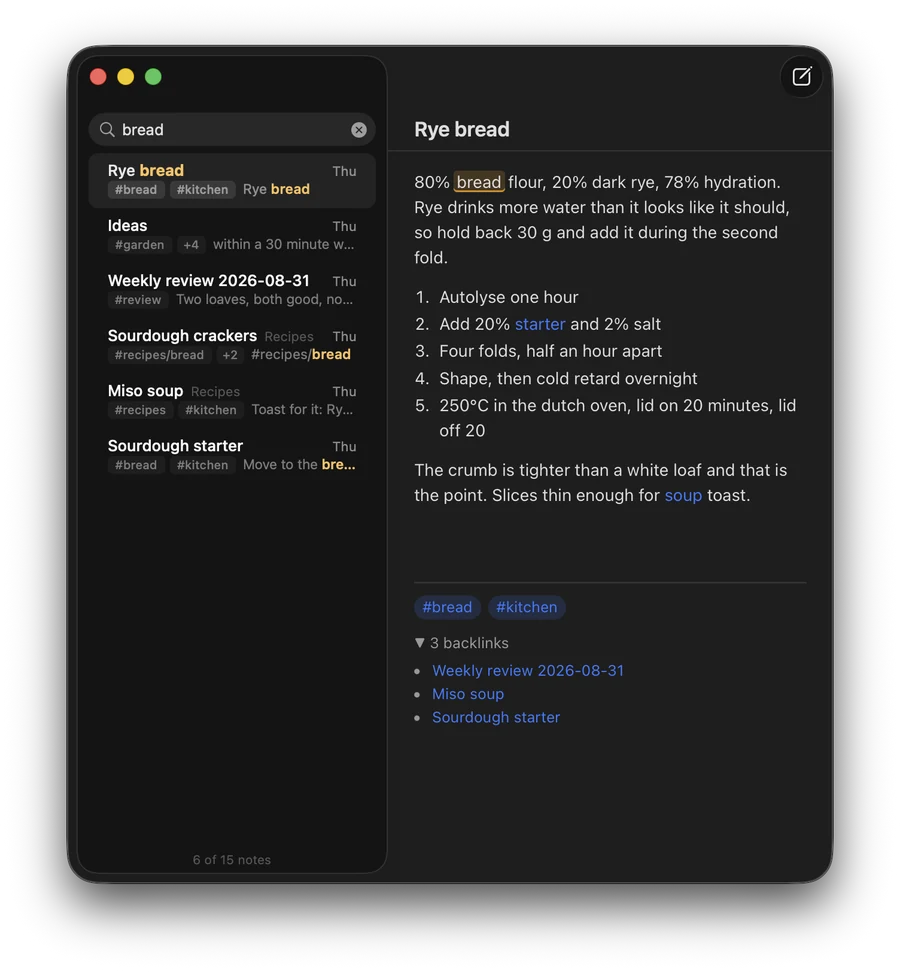
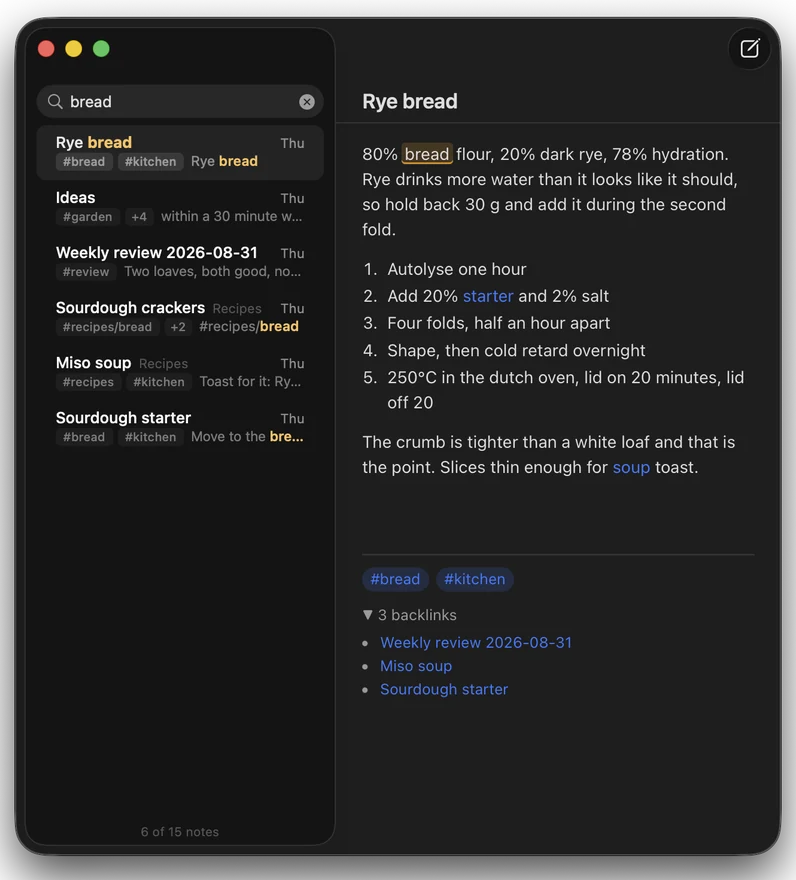
Add Tracer and Obliscence with logomarks and tighten previews

diff --git a/scripts/check-site.js b/scripts/check-site.js
@@ -1,4 +1,6 @@
 async page => {
+  // Routing disables the HTTP cache, including unchanged URLs for updated images.
+  await page.route('**/*', route => route.continue());
   const results = [];
   for (const theme of ['light', 'dark']) {
     await page.emulateMedia({colorScheme: theme});
@@ -8,8 +10,11 @@ async page => {
       const text = document.body.innerText;
       const personal = [...document.querySelectorAll('a[href="https://beaugunderson.com"]')];
       return {
-        removedCopyAbsent: !/the apps|native\. offline\. out of your way|little plant behind the name|malaga|say hello|github|beaugunderson\.com/i.test(text),
-        noGitHubLinks: !document.querySelector('a[href*="github.com"]'),
+        removedCopyAbsent: !/the apps|native\. offline\. out of your way|little plant behind the name|malaga|say hello|beaugunderson\.com/i.test(text),
+        productGitHubLinksOnly: [...document.querySelectorAll('a[href*="github.com"]')].map(a => a.href).sort().join(',') === 'https://github.com/beaugunderson/obliscence,https://github.com/beaugunderson/tracer',
+        tracerScreenshot: document.querySelector('.tracer .app-visual img')?.getAttribute('src') === '/assets/tracer.webp',
+        obliscenceTextOnly: !document.querySelector('.obliscence .app-visual') && /Claude Code and pi conversations/.test(document.querySelector('.obliscence .app-description')?.textContent),
+        everyAppHasLogomark: [...document.querySelectorAll('.app')].every(card => card.querySelector('.app-heading img[alt=""]')),
         noTopNavigation: !document.querySelector('.masthead nav'),
         noImageCaptions: !document.querySelector('.app-visual figcaption'),
         appBackgrounds: [...document.querySelectorAll('.app')].every(el => {
@@ -36,7 +41,24 @@ async page => {
       }, null, {timeout:10000});
       const layout = await page.evaluate(() => ({
         overflow: document.documentElement.scrollWidth > innerWidth,
-        compactDesktop: innerWidth < 1280 || document.documentElement.scrollHeight <= 1600,
+        compactDesktop: innerWidth < 1280 || document.documentElement.scrollHeight <= 2300,
+        currentKnapCapture: (() => {
+          const image = document.querySelector('.knap picture img');
+          return image.naturalWidth === (innerWidth <= 650 ? 796 : 1328);
+        })(),
+        tightPreviewSpacing: ['.knap', '.tuck'].every(selector => {
+          const card = document.querySelector(selector), visual = card.querySelector('.app-visual');
+          const image = visual.querySelector('img').getBoundingClientRect();
+          const frame = visual.getBoundingClientRect();
+          const heading = card.querySelector('.app-heading').getBoundingClientRect();
+          return Math.abs(frame.height - image.height) < 1 && heading.top - image.bottom <= 14;
+        }),
+        compactToolCards: ['.tracer', '.obliscence'].every(selector => {
+          const card = document.querySelector(selector), info = card.querySelector('.app-info');
+          const visual = card.querySelector('.app-visual');
+          const padding = parseFloat(getComputedStyle(card).paddingTop) + parseFloat(getComputedStyle(card).paddingBottom);
+          return Math.abs(card.getBoundingClientRect().height - info.getBoundingClientRect().height - (visual?.getBoundingClientRect().height || 0) - padding) < 1;
+        }),
         consistentUpcomingGap: innerWidth <= 1100 || Math.abs(document.querySelector('.narrowcast').getBoundingClientRect().top - document.querySelector('.galdra').getBoundingClientRect().bottom - parseFloat(getComputedStyle(document.querySelector('.grid')).rowGap)) < 1,
         heroFitsDesktop: innerWidth < 1280 || ['#headline','.intro'].every(selector => {
           const el = document.querySelector(selector);
@@ -52,7 +74,7 @@ async page => {
           return i.left < p.left - 1 || i.right > p.right + 1 || i.bottom > (caption ? caption.getBoundingClientRect().top - 5 : p.bottom + 1);
         }).map(img => img.src),
       }));
-      if (layout.overflow || !layout.consistentUpcomingGap || !layout.compactDesktop || !layout.heroFitsDesktop || layout.clippedPreviews.length || layout.missingSymbols || layout.apps.length !== 3 || layout.appCount !== 5 || layout.upcoming.length !== 2 || layout.upcoming.some(app => !app.comingSoon || !app.nonInteractive)) throw new Error(JSON.stringify({theme,width,layout}));
+      if (layout.overflow || !layout.consistentUpcomingGap || !layout.compactDesktop || !layout.compactToolCards || !layout.tightPreviewSpacing || !layout.currentKnapCapture || !layout.heroFitsDesktop || layout.clippedPreviews.length || layout.missingSymbols || layout.apps.length !== 5 || layout.appCount !== 7 || layout.upcoming.length !== 2 || layout.upcoming.some(app => !app.comingSoon || !app.nonInteractive)) throw new Error(JSON.stringify({theme,width,layout}));
       results.push({theme,width,layout:'pass'});
       if ([390,1280].includes(width)) {
         const audit = await page.evaluate(async () => {

diff --git a/index.html b/index.html
@@ -6,13 +6,13 @@
 <meta name="theme-color" content="#13221c" media="(prefers-color-scheme: light)">
 <meta name="theme-color" content="#0e1914" media="(prefers-color-scheme: dark)">
 <title>Bergknapp Softworks — Small, fast software for the Mac</title>
-<meta name="description" content="Small, fast tools made by Beau Gunderson: Knap, Spacebar, Tuck, and the upcoming Galdra and Narrowcast.">
+<meta name="description" content="Small, fast tools made by Beau Gunderson: Knap, Spacebar, Tuck, Tracer, Obliscence, and the upcoming Galdra and Narrowcast.">
 <link rel="canonical" href="https://bergknapp.works/">
 <link rel="icon" type="image/svg+xml" href="/favicon.svg?v=blue-spruce-1">
 <link rel="icon" type="image/png" sizes="256x256" href="/icon-256.png?v=blue-spruce-1">
 <link rel="apple-touch-icon" href="/apple-touch-icon.png?v=blue-spruce-1">
 <meta property="og:title" content="Bergknapp Softworks">
-<meta property="og:description" content="Small, fast, offline tools for the Mac. Made by Beau Gunderson.">
+<meta property="og:description" content="Small, fast tools for the Mac. Made by Beau Gunderson.">
 <meta property="og:image" content="https://bergknapp.works/og.png?v=blue-spruce-4">
 <meta property="og:image:width" content="1200">
 <meta property="og:image:height" content="630">
@@ -86,7 +86,7 @@
     <section class="hero" aria-labelledby="headline">
       <div>
         <h1 id="headline">Small, fast software for the Mac.</h1>
-        <p class="intro">I make native, offline tools for the things that bother me on my own Mac.</p>
+        <p class="intro">I make tools for the things that bother me on my own Mac.</p>
       </div>
       <figure class="hero-art"><svg role="img" aria-label="A blue-green stonecrop rosette seen from above"><use href="#rosette"/></svg></figure>
     </section>
@@ -101,8 +101,8 @@
           </div>
           <figure class="app-visual">
             <picture>
-              <source media="(max-width: 650px)" srcset="/assets/knap-window-narrow.webp" width="900" height="972">
-              <img src="/assets/knap-window.webp" width="1440" height="979" fetchpriority="high" alt="Knap searching for bread, with matching notes beside a Rye bread note and its backlinks.">
+              <source media="(max-width: 650px)" srcset="/assets/knap-window-narrow.webp" width="796" height="880">
+              <img src="/assets/knap-window.webp" width="1328" height="876" fetchpriority="high" alt="Knap searching for bread, with matching notes beside a Rye bread note and its backlinks.">
             </picture>
           </figure>
         </a>
@@ -146,6 +146,25 @@
             <div class="app-footer"><p class="app-meta">Coming soon · iPhone</p></div>
           </div>
         </article>
+        <a class="app tracer" href="https://github.com/beaugunderson/tracer" aria-labelledby="tracer-name tracer-visit">
+          <div class="app-info">
+            <div class="app-heading"><img src="/assets/tracer-icon.svg" width="36" height="36" alt="" loading="lazy"><h2 id="tracer-name">Tracer</h2></div>
+            <p class="app-line">See where your connection slows down.</p>
+            <p class="app-description">Continuous traceroute with per-hop latency sparklines, simultaneous IPv4 and IPv6 paths, and a log of recent outages.</p>
+            <div class="app-footer"><p class="app-meta">Mac &amp; Linux · Homebrew</p><span class="visit" id="tracer-visit"><span>GitHub</span><svg aria-hidden="true"><use href="#arrow"/></svg></span></div>
+          </div>
+          <figure class="app-visual">
+            <img src="/assets/tracer.webp" width="3456" height="984" alt="Tracer monitoring dns.google over IPv4 and IPv6, with per-hop latency sparklines, packet loss, and a recent-outages log." loading="lazy" decoding="async">
+          </figure>
+        </a>
+        <a class="app obliscence" href="https://github.com/beaugunderson/obliscence" aria-labelledby="obliscence-name obliscence-visit">
+          <div class="app-info">
+            <div class="app-heading"><img src="/assets/obliscence-icon.svg" width="36" height="36" alt="" loading="lazy"><h2 id="obliscence-name">Obliscence</h2></div>
+            <p class="app-line">Find that conversation again.</p>
+            <p class="app-description">Archive and search your Claude Code and pi conversations. One local archive for both, with full-text and semantic search.</p>
+            <div class="app-footer"><p class="app-meta">Mac · Homebrew</p><span class="visit" id="obliscence-visit"><span>GitHub</span><svg aria-hidden="true"><use href="#arrow"/></svg></span></div>
+          </div>
+        </a>
       </div>
     </section>
   </main>

diff --git a/styles.css b/styles.css
@@ -34,12 +34,13 @@ a.app:hover .visit svg { transform: translate(2px, -2px); }
 a.app:hover .visit span { text-decoration: underline; text-underline-offset: 4px; }
 .app-visual { order: -1; position: relative; margin: 0; height: 320px; display: flex; align-items: center; justify-content: center; }
 .app-visual img { width: auto; height: auto; max-width: 100%; max-height: 100%; object-fit: contain; }
-.knap .app-visual { padding: 0; }
-.knap picture { display: block; width: 100%; height: 100%; }
-.knap picture img { width: 100%; height: 100%; }
+.knap .app-visual, .tuck .app-visual { height: auto; padding: 0; }
+.knap picture { display: flex; justify-content: center; width: 100%; height: auto; }
+.knap picture img { width: auto; height: auto; max-height: 320px; }
+.knap .app-info, .tuck .app-info { padding-top: 12px; }
 .spacebar .app-visual img { border-radius: 10px; }
 .tuck { grid-column: 1; grid-row: 2 / span 2; }
-.tuck .app-visual img { border-radius: 10px; }
+.tuck .app-visual img { width: 100%; height: auto; border-radius: 10px; }
 .upcoming .app-meta { color: var(--accent); }
 .galdra { grid-column: 2; grid-row: 2; display: grid; grid-template-columns: minmax(0, 1fr) 250px; gap: 20px; align-items: center; }
 .galdra .app-info { padding: 0; }
@@ -51,6 +52,11 @@ a.app:hover .visit span { text-decoration: underline; text-underline-offset: 4px
 .narrowcast { grid-column: 2; grid-row: 3; }
 .narrowcast .app-info { padding: 0; }
 .narrowcast .app-description { margin-top: 10px; }
+.tracer, .obliscence { grid-column: 1 / -1; }
+.tracer .app-visual { height: auto; }
+.tracer .app-visual img { width: 100%; height: auto; border-radius: 10px; }
+.tracer .app-description, .obliscence .app-description { max-width: 75ch; }
+.obliscence .app-info { padding: 0; }
 footer { display: grid; grid-template-columns: minmax(0, 1fr) auto; align-items: end; gap: 48px; padding: 44px 0 34px; margin-top: 12px; color: var(--muted); }
 .about-copy p { max-width: 740px; margin: 0; font-size: 13px; line-height: 1.7; }
 .about-copy strong { color: var(--ink); font-weight: 500; }
@@ -59,6 +65,7 @@ footer a { text-decoration-color: currentColor; padding-block: 10px; }
 @media (max-width: 1100px) {
   .grid { grid-template-rows: none; gap: 24px; }
   .app-visual { height: 280px; }
+  .knap picture img { max-height: 280px; }
   .tuck, .galdra, .narrowcast { grid-row: auto; grid-column: auto; }
   .galdra { display: flex; }
   .galdra .app-info { padding: 17px 2px 0; }
@@ -73,6 +80,7 @@ footer a { text-decoration-color: currentColor; padding-block: 10px; }
   .hero { grid-template-columns: minmax(0, 1fr) 100px; gap: 24px; padding: 34px 0; }
   .hero-art svg { width: 100px; height: 100px; }
   .app-visual { height: 240px; }
+  .knap picture img { max-height: 240px; }
   .galdra .app-visual { height: 240px; }
   footer { gap: 24px; }
 }
@@ -90,13 +98,13 @@ footer a { text-decoration-color: currentColor; padding-block: 10px; }
   .app-visual { height: auto; }
   .app-visual img { width: 100%; height: auto; }
   .knap picture { width: 100%; height: auto; max-width: 430px; }
-  .knap picture img { width: 100%; height: auto; }
+  .knap picture img { width: 100%; height: auto; max-height: none; }
   .app-info, .galdra .app-info { padding: 13px 0 0; }
   .app-heading h2 { font-size: 24px; }
   .app-line { font-size: 18px; }
   .galdra .app-visual { height: auto; }
   .galdra .app-visual img { width: 100%; height: auto; max-height: 430px; }
-  .narrowcast .app-info { padding: 0; }
+  .narrowcast .app-info, .obliscence .app-info { padding: 0; }
   footer { grid-template-columns: 1fr; gap: 17px; padding: 34px 0 26px; margin-top: 0; }
 }
 @media (prefers-reduced-motion: reduce) {

diff --git a/README.md b/README.md
@@ -1,9 +1,9 @@
 # bergknapp.works
 
-The Bergknapp Softworks site: one static page linking to Knap, Spacebar, and Tuck, with coming-soon entries for Galdra and Narrowcast. No build step; Netlify publishes the repo root.
+The Bergknapp Softworks site: one static page linking to Knap, Spacebar, Tuck, Tracer, and Obliscence, with coming-soon entries for Galdra and Narrowcast. No build step; Netlify publishes the repo root.
 
 - `index.html` — the page, inline palette, and rosette SVG `<symbol>`.
-- `styles.css` — the responsive gallery layout. Subtle spruce backgrounds group each app, without border outlines or horizontal separators. The Galdra grid track is content-sized so Tuck’s spanning card cannot inflate the gap above Narrowcast. Galdra and Narrowcast share the right column beside Tuck on wide screens; smaller screens follow the document order.
+- `styles.css` — the responsive gallery layout. Subtle spruce backgrounds group each app, without border outlines or horizontal separators. The Galdra grid track is content-sized so Tuck’s spanning card cannot inflate the gap above Narrowcast. Galdra and Narrowcast share the right column beside Tuck on wide screens; smaller screens follow the document order. Tracer and Obliscence follow as full-width cards, keeping Tracer’s wide terminal screenshot readable and Obliscence text-only.
 - `favicon.svg` — the same mark with a `prefers-color-scheme` palette swap. Generated from the page by `scripts/sync-logo.py`. `icon-*.png`, `apple-touch-icon.png`, and `favicon.png` are light-palette rasters of it.
 - `og.html` → `og.png` — the 1200×630 social card. Regenerate by serving the folder and screenshotting `og.html` at 1200×630 (`playwright-cli open`, `resize 1200 630`, `screenshot`).
 
@@ -31,12 +31,15 @@ Keep browser screenshots and exploration pages outside the publish root.
 
 `assets/` contains optimized, self-hosted WebP previews and the apps’ existing icons. There are no remote image requests, fonts, analytics, or client-side scripts.
 
-- **Knap:** real app captures from `../knap-website/app-dark.png` and `app-dark-narrow.png`, resized to 1440px and 900px wide. Keep the narrow capture for phones.
+- **Knap:** real app captures from `../knap-website/app-dark.png` and `app-dark-narrow.png`, resized to 1440px and 900px wide, then cropped to remove excess transparent margins while retaining the window and a little shadow. Wide crop: `56,32,1384,908` → 1328×876; narrow crop: `52,28,848,908` → 796×880 (Pillow-style left, top, right, bottom bounds). Keep the narrow capture for phones. Knap’s preview is content-sized with an image-height cap, not a fixed-height empty box.
 - **Spacebar:** a capture of the archive demo’s `.panel` in `../spacebar-website/index.html`, rendered in light mode at 2×. This is website demo artwork, not a native application screenshot; its alt text identifies it as a demo.
-- **Tuck:** a capture of the illustrated `.desktop` demo in `../tuck/site/`, with the tray open. Captured at 720×311 CSS pixels, 2×, with the theme picker hidden. Its alt text identifies it as an illustrated demo. Neither preview has a visible caption.
+- **Tuck:** a capture of the illustrated `.desktop` demo in `../tuck/site/`, with the tray open. Captured at 720×311 CSS pixels, 2×, with the theme picker hidden. Its alt text identifies it as an illustrated demo. Neither preview has a visible caption. Tuck’s preview follows its natural aspect ratio with a 12px gap before the heading; don’t restore a fixed-height preview box.
 - **Galdra:** an actual iPad simulator capture of the main session picker in `../singing-bowls/`. `galdra-choices.webp` crops the title and five complete choices with their descriptions (1668×2420 source; crop `24,80,856,958`, producing 832×878). This replaces the less-informative abstract room view. It is a cropped real screen, not reconstructed UI. Its app icon comes from the iOS asset catalog.
+- **Tracer:** the screenshot from [its README](https://github.com/beaugunderson/tracer), `docs/screenshot.png`, converted without resizing to lossless WebP (3456×984). Refresh with `curl -fLsS https://raw.githubusercontent.com/beaugunderson/tracer/HEAD/docs/screenshot.png -o /tmp/bergknapp-tracer-source.png` and `cwebp -lossless /tmp/bergknapp-tracer-source.png -o assets/tracer.webp`.
+- **Obliscence:** intentionally text-only. Copy explicitly names both Claude Code and pi; the card links to its GitHub repo.
 - **Narrowcast:** app icon from `../podcast-roulette/ios/Narrowcast/Assets.xcassets/`. The coming-soon card describes the taste-based podcast station and offline playback; no download or signup is available here yet.
-- App icons come from the corresponding sites or app asset catalogs. Don’t draw substitute interfaces or expose personal app data in screenshots.
+- **Tool logomarks:** `assets/tracer-icon.svg` (a branching route with network hops) and `assets/obliscence-icon.svg` (overlapping conversations) are the reusable originals, drawn on 64×64 viewboxes in the Blue spruce palette. Both appear at 36px in card headings. Every card has a logomark; a screenshot is optional.
+- Other app icons come from the corresponding sites or app asset catalogs. Don’t draw substitute interfaces or expose personal app data in screenshots.
 
 Galdra main-screen capture: locate its simulator data container, shut the device down, back up `Library/Preferences/com.beaugunderson.galdra.plist`, and set its `onboarded` boolean to true. Boot and launch without `--autoplay`. Restore the original plist with the simulator stopped afterward. Editing that file while simulator `cfprefsd` is running can be ignored; `-onboarded YES` alone did not bypass onboarding in the available build. Main-screen capture needs no motion permission.
 

diff --git a/CLAUDE.md b/CLAUDE.md
@@ -2,10 +2,10 @@
 
 Static one-page site for Bergknapp Softworks at https://bergknapp.works, hosted on Netlify (project `bergknapp-works`) and deployed from `main` of `beaugunderson/bergknapp-website`. `netlify.toml` publishes the repo root; no build.
 
-- Keep the page a directory: one card per app pointing at that app's own site (knap.rocks, spacebar.tools, tuck.bar). Galdra and Narrowcast have explicitly requested coming-soon cards; keep those non-interactive until there's a real destination or signup flow. Product detail lives on the app sites, not here.
+- Keep the page a directory: one card per released app or CLI tool pointing at its own site (knap.rocks, spacebar.tools, tuck.bar) or GitHub repo (Tracer, Obliscence). Galdra and Narrowcast have explicitly requested coming-soon cards; keep those non-interactive until there's a real destination or signup flow. Product detail lives on the app sites or READMEs, not here. Use Tracer’s README screenshot; keep Obliscence screenshot-free and explicitly say it works with both Claude Code and pi. Every card has a logomark; Tracer and Obliscence’s reusable originals are `assets/tracer-icon.svg` and `assets/obliscence-icon.svg`.
 - Keep the layout compact: use subtle spruce backgrounds to group each app, without border outlines, horizontal dividers, or oversized empty image/text panels. Prefer informative app UI captures; Galdra should show session choices and descriptions, not just the abstract room. Keep gaps between entries consistent, and omit visible image captions (identify illustrative demos in alt text instead).
-- Copy stays short and in Beau's voice. Add a card when an app has its own site; drop the card when it goes away. Keep the headline restrained and sans-serif throughout; no contrasting italic-serif or accent-colored second line.
-- Use a dark spruce background even in light OS mode. No top navigation (including About), "The apps" heading/tagline, logo caption, location/byline, GitHub, or "Say hello" links. Keep the name explanation without a heading or pronunciation. Give the hero text enough width to stay on single lines on desktop; allow natural wrapping on smaller screens. Beau's name appears once in the visible page, linked to his personal website in the footer; don't display the domain as a separate link.
+- Copy stays short and in Beau's voice. Add a card when software is ready to distribute, even if its destination is a GitHub repo rather than a dedicated site; drop the card when it goes away. Keep the headline restrained and sans-serif throughout; no contrasting italic-serif or accent-colored second line.
+- Use a dark spruce background even in light OS mode. No top navigation (including About), "The apps" heading/tagline, logo caption, location/byline, personal GitHub, or "Say hello" links. Product GitHub links are fine. Keep the name explanation without a heading or pronunciation. Give the hero text enough width to stay on single lines on desktop; allow natural wrapping on smaller screens. Beau's name appears once in the visible page, linked to his personal website in the footer; don't display the domain as a separate link.
 - The mark is a top-down stonecrop (sedum) rosette, no rock, in the Blue spruce palette. Each leaf ring has a distinct brightness range. `index.html` owns the `<symbol id="rosette">` and light/dark CSS colors; run `python3 scripts/sync-logo.py` to update `favicon.svg` and the mark in `og.html`, then regenerate PNGs per the README. Keep the approved geometry unless Beau asks to change it.
 - DNS is at Spaceship, not Netlify: `@ A 75.2.60.5`, `www CNAME bergknapp-works.netlify.app`, TTL 300. Manage records through the Spaceship API (`spaceship API key` in the emmylou 1Password vault); never move nameservers to Netlify (DNSSEC DS at Spaceship makes that SERVFAIL, see tuck's CLAUDE.md).
-- Each app site links back here in its footer; when adding an app, add the reciprocal link on its site.
+- Each dedicated app site links back here in its footer; when adding an app with its own site, add the reciprocal link there.
